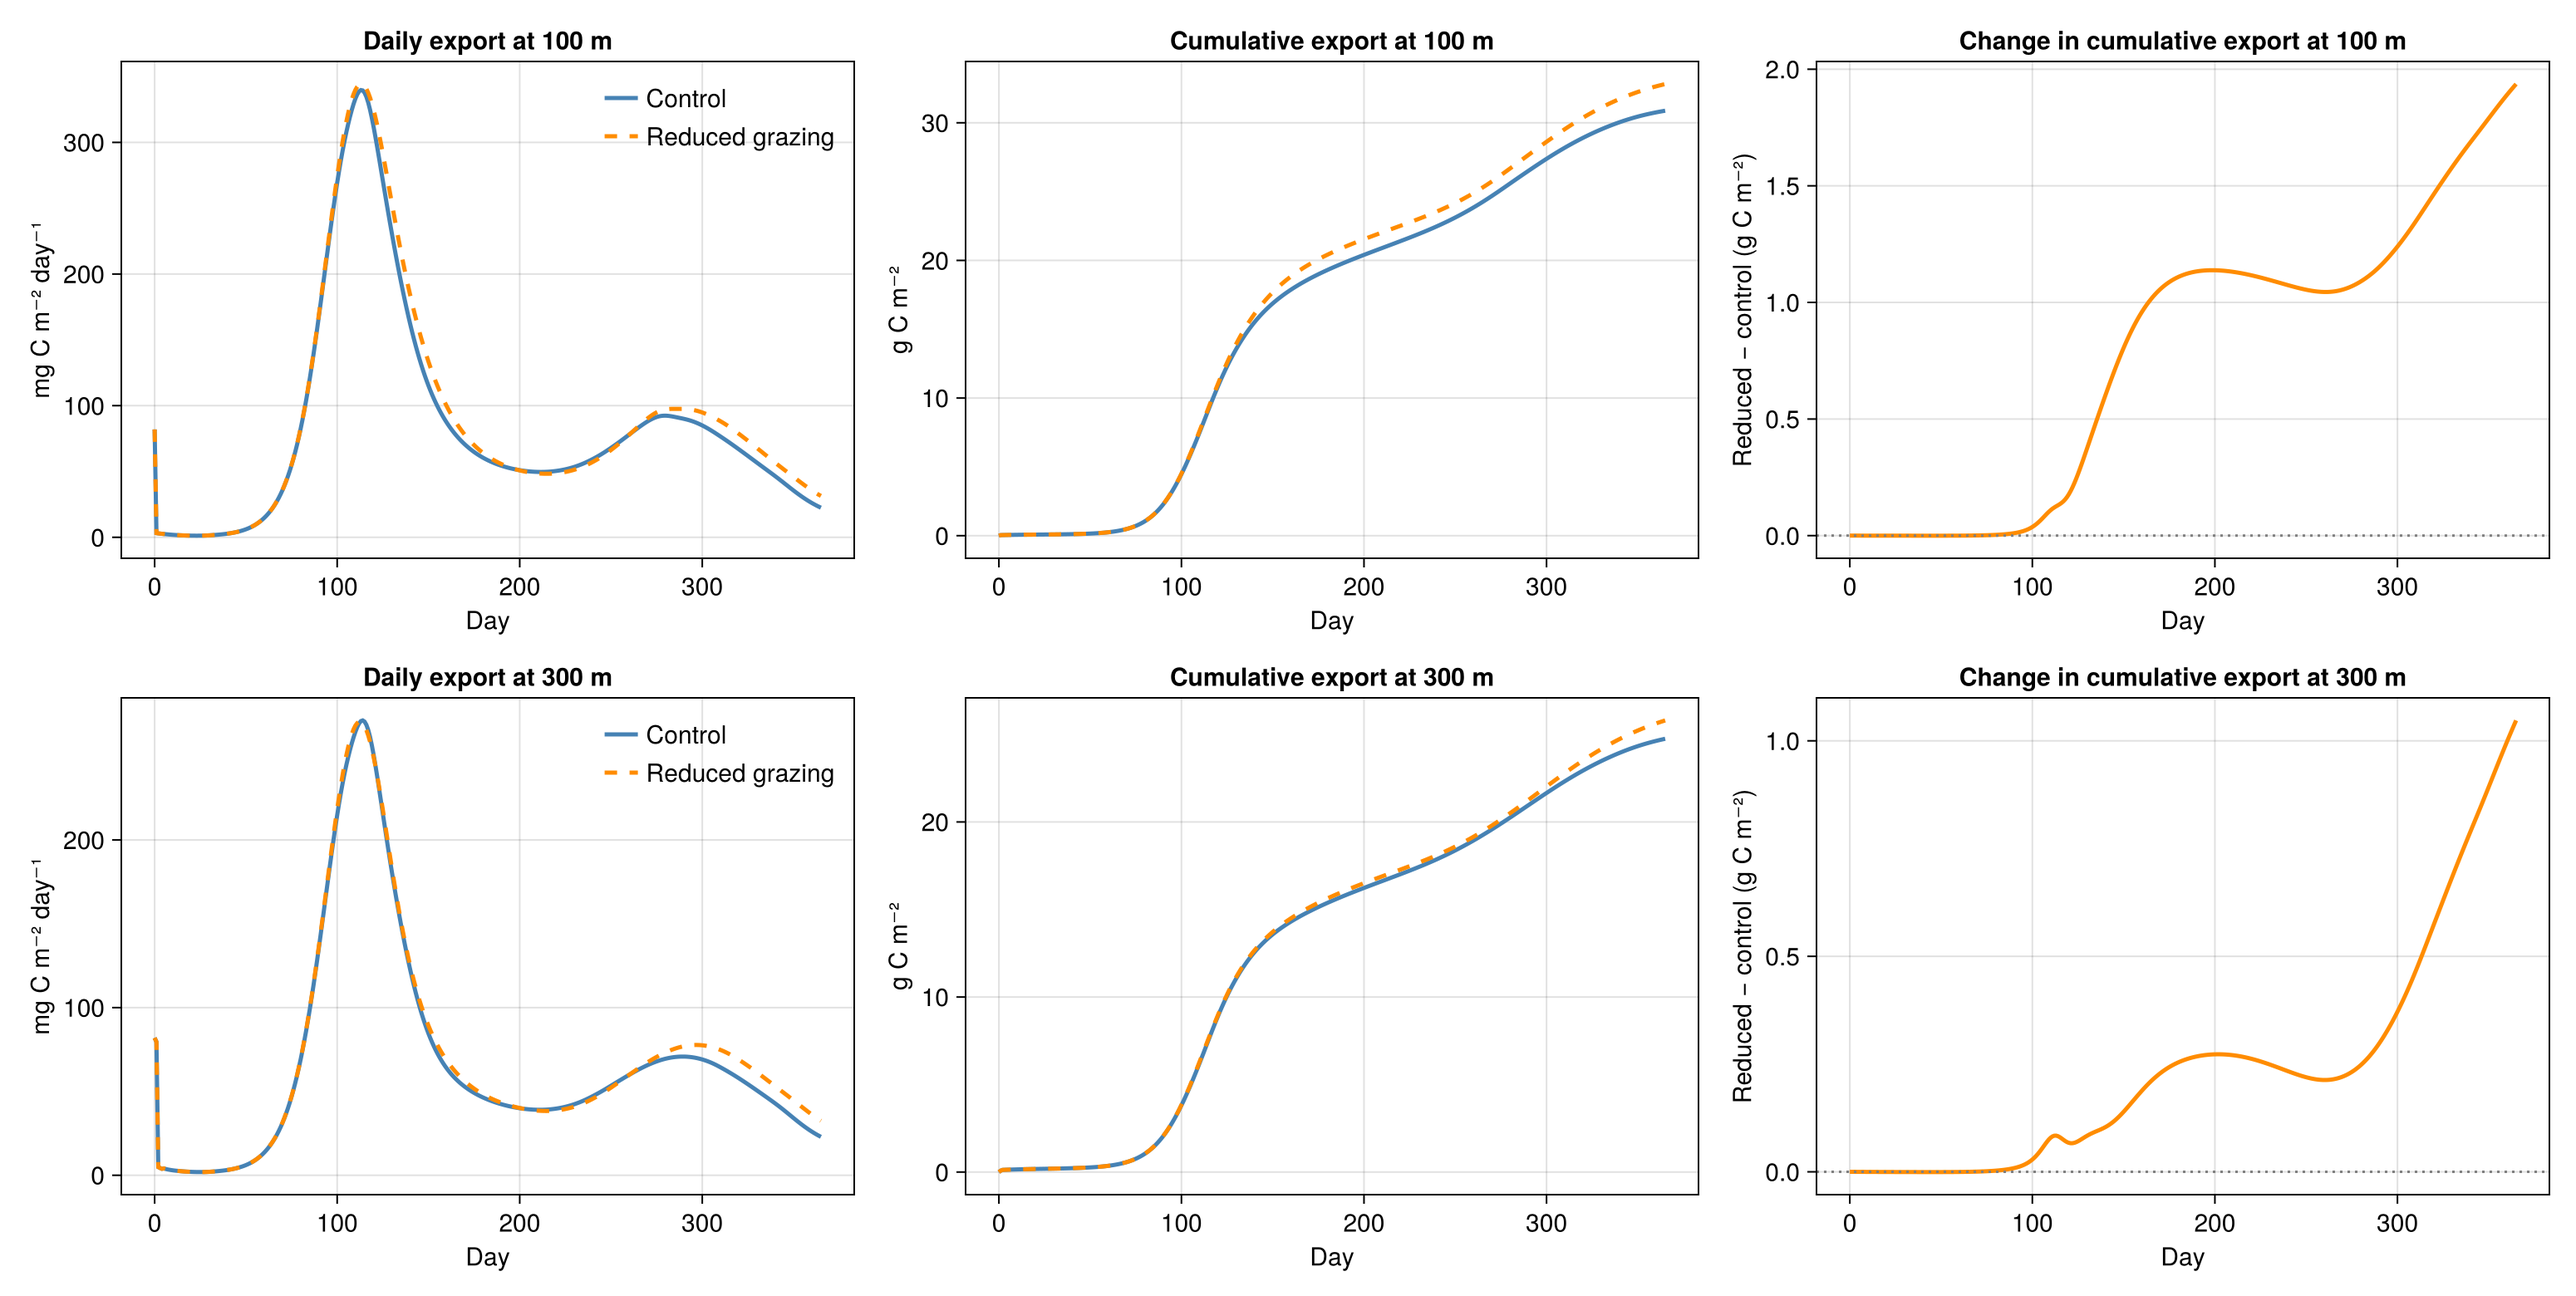
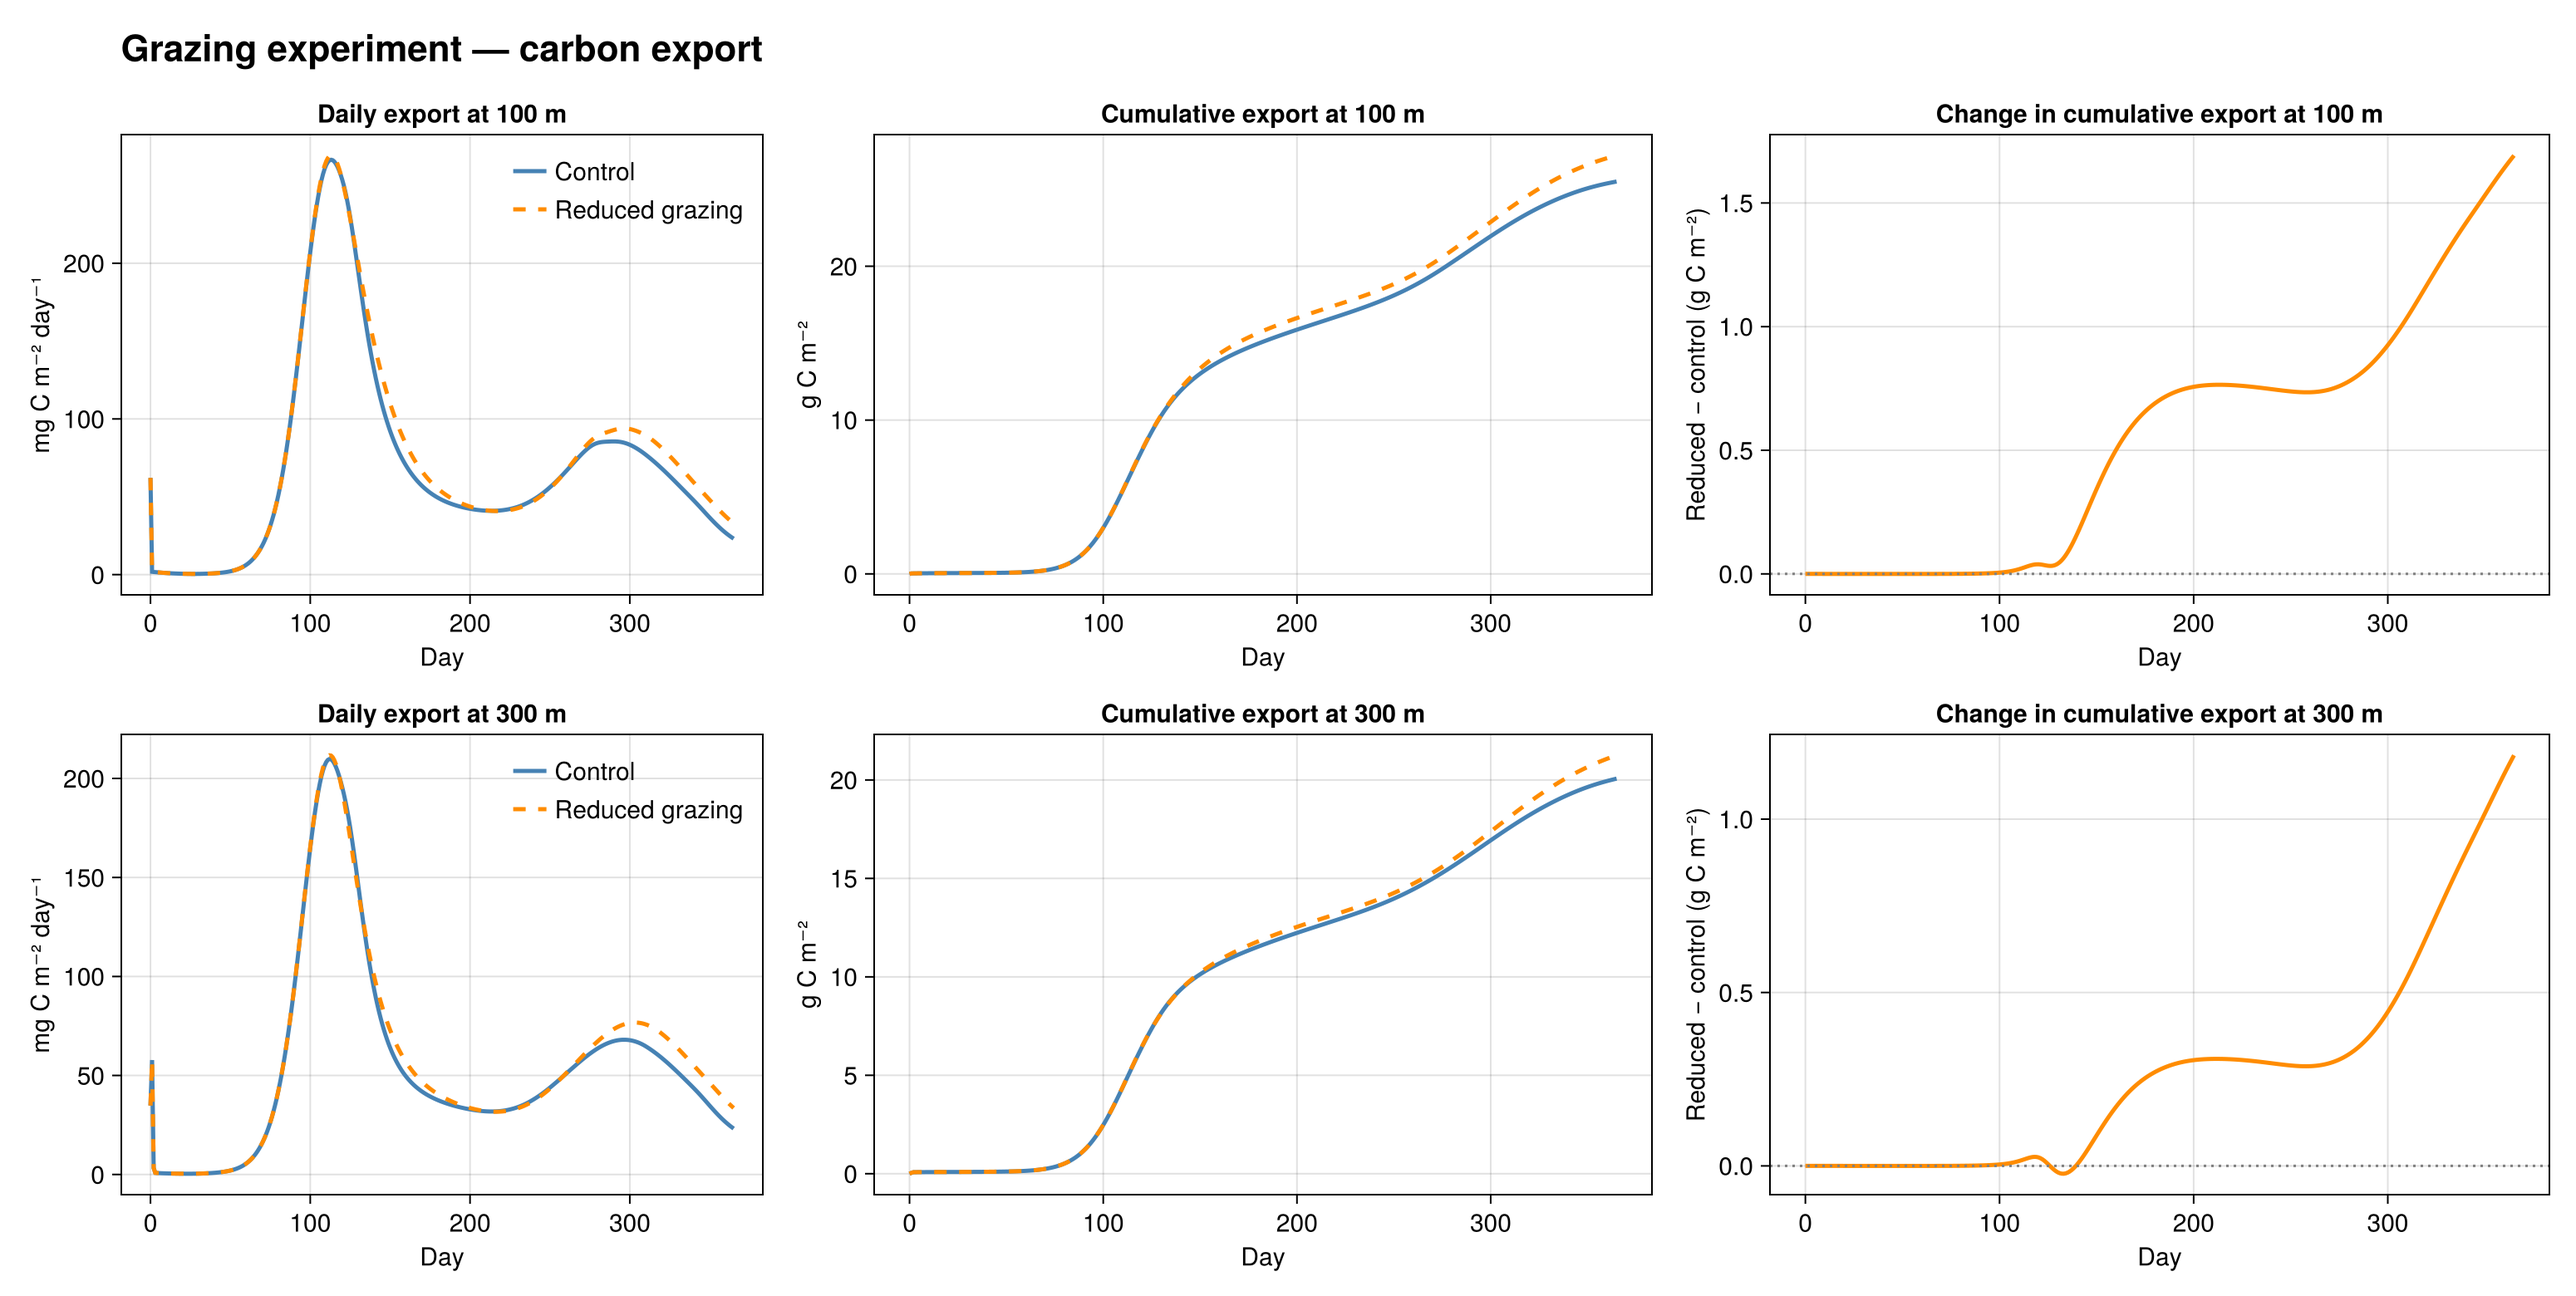
Plot seasonal BATS and NABE diffusivity in comparison docs

diff --git a/docs/src/assets/grazing_console.md b/docs/src/assets/grazing_console.md
@@ -1,14 +1,14 @@
 **365-day simulation — console output**
 
 ````text
-control: final surface phytoplankton = 0.26273882389068604 mmol N/m³
-control: cumulative export at 100 m = 30.8756299566044 g C/m²
-control: cumulative export at 300 m = 24.753002636513145 g C/m²
-control: nitrogen budget residual = -0.011793795718403999 mmol N/m² (-0.0005690613135018503% of sampled starting inventory)
+control: final surface phytoplankton = 0.2665005922317505 mmol N/m³
+control: cumulative export at 100 m = 25.50626318641209 g C/m²
+control: cumulative export at 300 m = 20.068482437599062 g C/m²
+control: nitrogen budget residual = -0.022709050245339313 mmol N/m² (-0.001198886860589428% of sampled starting inventory)
 Saved /home/phyto/masts-asm-2026-modelling/outputs/oceanbiome/reference_docs/grazing/control.jld2 and diagnostics CSV
-reduced_grazing: final surface phytoplankton = 0.33590060472488403 mmol N/m³
-reduced_grazing: cumulative export at 100 m = 32.812044856039996 g C/m²
-reduced_grazing: cumulative export at 300 m = 25.80034255737117 g C/m²
-reduced_grazing: nitrogen budget residual = -0.011704788407314481 mmol N/m² (-0.0005647666302150414% of sampled starting inventory)
+reduced_grazing: final surface phytoplankton = 0.34529605507850647 mmol N/m³
+reduced_grazing: cumulative export at 100 m = 27.19836989094399 g C/m²
+reduced_grazing: cumulative export at 300 m = 21.252534468359194 g C/m²
+reduced_grazing: nitrogen budget residual = -0.02283595024391616 mmol N/m² (-0.001205586336756813% of sampled starting inventory)
 Saved /home/phyto/masts-asm-2026-modelling/outputs/oceanbiome/reference_docs/grazing/reduced_grazing.jld2 and diagnostics CSV
 ````

diff --git a/docs/src/assets/reference_column_console.md b/docs/src/assets/reference_column_console.md
@@ -1,10 +1,10 @@
 **365-day simulation — console output**
 
 ````text
-Reference: final surface phytoplankton = 0.26273882389068604 mmol N/m³
-Reference: cumulative export at 100 m = 30.8756299566044 g C/m²
-Reference: cumulative export at 300 m = 24.753002636513145 g C/m²
-Reference: fitted Martin b = 0.13926090574525143
-Reference: nitrogen budget residual = -0.011793795718403999 mmol N/m² (-0.0005690613135018503% of sampled starting inventory)
+Reference: final surface phytoplankton = 0.2665005922317505 mmol N/m³
+Reference: cumulative export at 100 m = 25.50626318641209 g C/m²
+Reference: cumulative export at 300 m = 20.068482437599062 g C/m²
+Reference: fitted Martin b = 0.12160515560484525
+Reference: nitrogen budget residual = -0.022709050245339313 mmol N/m² (-0.001198886860589428% of sampled starting inventory)
 Saved /home/phyto/masts-asm-2026-modelling/outputs/oceanbiome/reference_docs/reference_column/reference_column.jld2 and diagnostics CSV
 ````

diff --git a/docs/src/assets/remineralisation_console.md b/docs/src/assets/remineralisation_console.md
@@ -1,0 +1,12 @@
+**365-day simulation — console output**
+
+````text
+control: export at 100 m = 25.50626318641209 g C/m²
+control: export at 300 m = 20.068482437599062 g C/m²
+control: nitrogen budget residual = -0.022709050245339313 mmol N/m²
+Saved /home/phyto/masts-asm-2026-modelling/outputs/oceanbiome/reference_docs/remineralisation/control.jld2 and CSV summaries
+fast_remineralisation: export at 100 m = 23.902530403863956 g C/m²
+fast_remineralisation: export at 300 m = 19.78871565167399 g C/m²
+fast_remineralisation: nitrogen budget residual = -0.018654129366268535 mmol N/m²
+Saved /home/phyto/masts-asm-2026-modelling/outputs/oceanbiome/reference_docs/remineralisation/fast_remineralisation.jld2 and CSV summaries
+````

diff --git a/docs/src/assets/sinking_console.md b/docs/src/assets/sinking_console.md
@@ -1,0 +1,12 @@
+**365-day simulation — console output**
+
+````text
+control: export at 100 m = 25.50626318641209 g C/m²
+control: export at 300 m = 20.068482437599062 g C/m²
+control: nitrogen budget residual = -0.022709050245339313 mmol N/m²
+Saved /home/phyto/masts-asm-2026-modelling/outputs/oceanbiome/reference_docs/sinking/control.jld2 and CSV summaries
+slow_sinking: export at 100 m = 25.45574201568917 g C/m²
+slow_sinking: export at 300 m = 18.93923477867859 g C/m²
+slow_sinking: nitrogen budget residual = 0.000744461239719385 mmol N/m²
+Saved /home/phyto/masts-asm-2026-modelling/outputs/oceanbiome/reference_docs/sinking/slow_sinking.jld2 and CSV summaries
+````

diff --git a/docs/src/assets/nutrient_affinity_console.md b/docs/src/assets/nutrient_affinity_console.md
@@ -1,0 +1,12 @@
+**365-day simulation — console output**
+
+````text
+Control: final surface phytoplankton = 0.2665005922317505 mmol N/m³
+Control: cumulative export at 100 m = 25.50626318641209 g C/m²
+Control: cumulative export at 300 m = 20.068482437599062 g C/m²
+Control: nitrogen budget residual = -0.022709050245339313 mmol N/m²
+Modified: final surface phytoplankton = 0.26784032583236694 mmol N/m³
+Modified: cumulative export at 100 m = 27.488951010629954 g C/m²
+Modified: cumulative export at 300 m = 21.699604414828688 g C/m²
+Modified: nitrogen budget residual = -0.022805197068691996 mmol N/m²
+````

diff --git a/docs/src/assets/phytoplankton_mortality_console.md b/docs/src/assets/phytoplankton_mortality_console.md
@@ -1,0 +1,12 @@
+**365-day simulation — console output**
+
+````text
+Control: final surface phytoplankton = 0.2665005922317505 mmol N/m³
+Control: cumulative export at 100 m = 25.50626318641209 g C/m²
+Control: cumulative export at 300 m = 20.068482437599062 g C/m²
+Control: nitrogen budget residual = -0.022709050245339313 mmol N/m²
+Modified: final surface phytoplankton = 0.2101220190525055 mmol N/m³
+Modified: cumulative export at 100 m = 27.313305834489693 g C/m²
+Modified: cumulative export at 300 m = 21.144749330567844 g C/m²
+Modified: nitrogen budget residual = -0.022863675946155126 mmol N/m²
+````

diff --git a/docs/src/assets/light_affinity_console.md b/docs/src/assets/light_affinity_console.md
@@ -1,0 +1,12 @@
+**365-day simulation — console output**
+
+````text
+Control: final surface phytoplankton = 0.2665005922317505 mmol N/m³
+Control: cumulative export at 100 m = 25.50626318641209 g C/m²
+Control: cumulative export at 300 m = 20.068482437599062 g C/m²
+Control: nitrogen budget residual = -0.022709050245339313 mmol N/m²
+Modified: final surface phytoplankton = 0.3381221294403076 mmol N/m³
+Modified: cumulative export at 100 m = 30.42763906445097 g C/m²
+Modified: cumulative export at 300 m = 24.681074873440156 g C/m²
+Modified: nitrogen budget residual = -0.02305622183826017 mmol N/m²
+````

diff --git a/docs/src/assets/light_affinity_budget.md b/docs/src/assets/light_affinity_budget.md
@@ -1,0 +1,13 @@
+### Nitrogen-budget check
+
+The budget compares the seven-tracer nitrogen inventory with sinking
+loss through the open bottom boundary. The residual is relative to
+the first saved inventory.
+
+| Experiment | Final residual | Maximum absolute residual |
+|:-----------|---------------:|--------------------------:|
+| Control | -0.0% | 0.0% |
+| Modified | -0.0% | 0.0% |
+
+The acceptance threshold is 5% of the starting inventory. The
+diagnostic uses saved profiles and an upwind estimate of sinking flux.

diff --git a/docs/src/assets/nutrient_affinity_budget.md b/docs/src/assets/nutrient_affinity_budget.md
@@ -1,0 +1,13 @@
+### Nitrogen-budget check
+
+The budget compares the seven-tracer nitrogen inventory with sinking
+loss through the open bottom boundary. The residual is relative to
+the first saved inventory.
+
+| Experiment | Final residual | Maximum absolute residual |
+|:-----------|---------------:|--------------------------:|
+| Control | -0.0% | 0.0% |
+| Modified | -0.0% | 0.0% |
+
+The acceptance threshold is 5% of the starting inventory. The
+diagnostic uses saved profiles and an upwind estimate of sinking flux.

diff --git a/docs/src/assets/phytoplankton_mortality_budget.md b/docs/src/assets/phytoplankton_mortality_budget.md
@@ -1,0 +1,13 @@
+### Nitrogen-budget check
+
+The budget compares the seven-tracer nitrogen inventory with sinking
+loss through the open bottom boundary. The residual is relative to
+the first saved inventory.
+
+| Experiment | Final residual | Maximum absolute residual |
+|:-----------|---------------:|--------------------------:|
+| Control | -0.0% | 0.0% |
+| Modified | -0.0% | 0.0% |
+
+The acceptance threshold is 5% of the starting inventory. The
+diagnostic uses saved profiles and an upwind estimate of sinking flux.

diff --git a/docs/src/assets/remineralisation_budget.md b/docs/src/assets/remineralisation_budget.md
@@ -1,0 +1,13 @@
+### Nitrogen-budget check
+
+The budget compares the seven-tracer nitrogen inventory with sinking
+loss through the open bottom boundary. The residual is relative to
+the first saved inventory.
+
+| Experiment | Final residual | Maximum absolute residual |
+|:-----------|---------------:|--------------------------:|
+| Control | -0.0% | 0.0% |
+| Modified | -0.0% | 0.0% |
+
+The acceptance threshold is 5% of the starting inventory. The
+diagnostic uses saved profiles and an upwind estimate of sinking flux.

diff --git a/docs/src/assets/sinking_budget.md b/docs/src/assets/sinking_budget.md
@@ -1,0 +1,13 @@
+### Nitrogen-budget check
+
+The budget compares the seven-tracer nitrogen inventory with sinking
+loss through the open bottom boundary. The residual is relative to
+the first saved inventory.
+
+| Experiment | Final residual | Maximum absolute residual |
+|:-----------|---------------:|--------------------------:|
+| Control | -0.0% | 0.0% |
+| Modified | 0.0% | 0.0% |
+
+The acceptance threshold is 5% of the starting inventory. The
+diagnostic uses saved profiles and an upwind estimate of sinking flux.
